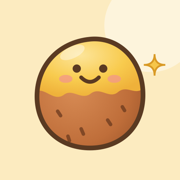
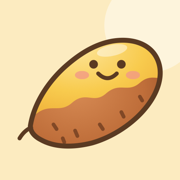
Give the sweet potato a real sweet-potato shape and drop UI borders
The illustration is now a tilted, tapered sweet potato with a root tip
instead of a round blob. Cards, inputs, tabs and empty stamp slots no
longer have outline borders.

Changed region(s): [[0.0833, 0.1944, 0.9167, 0.8611], [0.5278, 0.6389, 0.6389, 0.7222], [0.6667, 0.5833, 0.7222, 0.6667]]

diff --git a/index.html b/index.html
@@ -32,9 +32,9 @@ h1{margin:0;font-size:27px;line-height:1.2;font-family:Huninn,sans-serif;font-we
 h2{margin:0;font-size:18px;line-height:1.3;font-family:Huninn,sans-serif;font-weight:400}
 .sub{margin:0;font-size:12.5px;line-height:1.55;color:var(--muted)}
 .row{display:flex;gap:10px;align-items:center}
-.card{background:var(--card);border-radius:26px;padding:18px;display:flex;flex-direction:column;gap:12px;box-shadow:var(--shadow);border:1.5px solid #F1E3CF}
+.card{background:var(--card);border-radius:26px;padding:18px;display:flex;flex-direction:column;gap:12px;box-shadow:var(--shadow)}
 .pill{display:inline-flex;align-items:center;gap:6px;padding:6px 14px;border-radius:999px;background:var(--pill);font-size:13px;color:var(--brown-ink);white-space:nowrap}
-.hero{position:relative;overflow:hidden;display:flex;align-items:center;gap:8px;padding:18px 18px 18px 22px;border-radius:28px;background:var(--butter);border:1.5px solid #F2D899}
+.hero{position:relative;overflow:hidden;display:flex;align-items:center;gap:8px;padding:18px 18px 18px 22px;border-radius:28px;background:var(--butter)}
 .hero::before{content:"";position:absolute;right:-40px;top:-50px;width:170px;height:170px;border-radius:50%;background:rgba(255,255,255,.45)}
 .hero>*{position:relative}
 .big{font-family:Huninn,sans-serif;font-size:46px;line-height:1;color:var(--brown-ink)}
@@ -57,7 +57,7 @@ h2{margin:0;font-size:18px;line-height:1.3;font-family:Huninn,sans-serif;font-we
 .cell .plus{position:absolute;right:-2px;top:-2px;width:18px;height:18px;border-radius:50%;background:var(--brown);color:#fff;font-size:12px;font-weight:700;display:flex;align-items:center;justify-content:center;border:2px solid var(--card)}
 .cell.pop svg{animation:pop .5s cubic-bezier(.3,1.6,.5,1)}
 @keyframes pop{0%{transform:scale(.2) rotate(-30deg);opacity:0}100%{transform:scale(1) rotate(var(--r,0deg));opacity:1}}
-.tabs{position:fixed;left:0;right:0;bottom:0;z-index:5;background:rgba(255,252,246,.96);backdrop-filter:blur(8px);-webkit-backdrop-filter:blur(8px);border-top:1.5px solid var(--line);padding:6px 8px calc(6px + env(safe-area-inset-bottom))}
+.tabs{position:fixed;left:0;right:0;bottom:0;z-index:5;background:rgba(255,252,246,.96);backdrop-filter:blur(8px);-webkit-backdrop-filter:blur(8px);box-shadow:0 -4px 16px rgba(90,58,34,.06);padding:6px 8px calc(6px + env(safe-area-inset-bottom))}
 .tabs-in{max-width:480px;margin:0 auto;display:grid;grid-template-columns:repeat(5,minmax(0,1fr))}
 .tab{display:flex;flex-direction:column;align-items:center;gap:3px;padding:6px 0;min-height:52px;text-decoration:none;color:var(--muted);font-size:11.5px;font-weight:700;border-radius:14px}
 .tab svg{width:24px;height:24px}
@@ -67,14 +67,14 @@ h2{margin:0;font-size:18px;line-height:1.3;font-family:Huninn,sans-serif;font-we
 .group-h{display:flex;align-items:center;gap:10px;padding:0 2px}
 .group-h h2{font-size:16px;flex:1}
 .items{display:flex;flex-direction:column;gap:8px}
-.item{display:flex;align-items:center;gap:14px;min-height:56px;padding:0 10px 0 16px;border-radius:18px;background:var(--card);cursor:pointer;border:1.5px solid #F1E3CF}
-.item.on{background:var(--butter);border-color:#F2D899}
+.item{display:flex;align-items:center;gap:14px;min-height:56px;padding:0 10px 0 16px;border-radius:18px;background:var(--card);cursor:pointer}
+.item.on{background:var(--butter)}
 .item input{width:22px;height:22px;margin:0;accent-color:var(--brown);cursor:pointer}
 .item .name{flex:1;font-size:16px}
 .tag{font-size:11px;font-weight:700;padding:4px 10px;border-radius:999px;background:var(--card);color:var(--brown-ink)}
 .del{width:36px;height:36px;border:0;border-radius:50%;background:transparent;color:var(--muted);cursor:pointer;font-size:20px}
-.text-in{flex:1;min-width:0;height:48px;padding:0 16px;border:1.5px solid var(--line);border-radius:16px;background:var(--card);font-size:16px}
-.meal{display:flex;gap:14px;align-items:center;padding:12px 14px;border-radius:22px;background:var(--card);border:1.5px solid #F1E3CF}
+.text-in{flex:1;min-width:0;height:48px;padding:0 16px;border:0;border-radius:16px;background:var(--card);box-shadow:var(--shadow);font-size:16px}
+.meal{display:flex;gap:14px;align-items:center;padding:12px 14px;border-radius:22px;background:var(--card)}
 .meal h3{margin:0 0 4px;font-size:16px;font-family:Huninn,sans-serif;font-weight:400}
 .meal p{margin:0;font-size:12.5px;line-height:1.6;color:var(--muted)}
 .tips{margin:0;padding:16px;list-style:none;display:flex;flex-direction:column;gap:12px;border-radius:22px;background:var(--butter)}
@@ -83,7 +83,7 @@ h2{margin:0;font-size:18px;line-height:1.3;font-family:Huninn,sans-serif;font-we
 .chips{display:flex;flex-wrap:wrap;gap:8px}
 .chip{height:36px;padding:0 14px;border:0;border-radius:999px;font-size:13px;font-weight:700;cursor:pointer;background:var(--pill)}
 textarea{width:100%;padding:16px;border:0;border-radius:18px;background:var(--bg);font-size:16px;line-height:1.75;resize:vertical;min-height:240px;outline-color:var(--brown)}
-details.prev{border-radius:18px;background:var(--card);border:1.5px solid #F1E3CF}
+details.prev{border-radius:18px;background:var(--card)}
 details.prev summary{min-height:52px;padding:0 18px;display:flex;align-items:center;font-size:15px;font-weight:700;cursor:pointer;list-style:none}
 details.prev summary::-webkit-details-marker{display:none}
 details.prev pre{margin:0;padding:0 18px 16px;font-family:inherit;font-size:14px;line-height:1.8;color:var(--muted);white-space:pre-wrap}
@@ -94,7 +94,7 @@ details.prev pre{margin:0;padding:0 18px 16px;font-family:inherit;font-size:14px
 .pick:has(input:focus-visible){outline:2px solid var(--brown)}
 .stepper{display:flex;align-items:center;gap:6px}
 .stepper span{min-width:46px;text-align:center;font-family:Huninn,sans-serif;font-size:18px}
-.hist-row{display:flex;align-items:center;gap:10px;padding:8px 0;border-top:1px dashed var(--line)}
+.hist-row{display:flex;align-items:center;gap:10px;padding:8px 0;border-top:0;background:var(--bg);border-radius:14px;padding:8px 10px;margin-top:4px}
 .dots{display:flex;flex-wrap:wrap;gap:3px;max-width:120px;justify-content:flex-end}
 .dots i{width:9px;height:9px;border-radius:50%}
 .foot{margin:4px 0 0;text-align:center;font-size:11.5px;line-height:1.6;color:var(--muted)}
@@ -110,6 +110,7 @@ details.prev pre{margin:0;padding:0 18px 16px;font-family:inherit;font-size:14px
       <feTurbulence type="fractalNoise" baseFrequency="0.04" numOctaves="2" seed="4" result="n"/>
       <feDisplacementMap in="SourceGraphic" in2="n" scale="2.4" xChannelSelector="R" yChannelSelector="G"/>
     </filter>
+    <clipPath id="bodyClip"><path d="M9 71C11 58 19 44 31 33C41 24 51 18 62 16C74 14 86 17 91 27C96 37 92 49 84 59C76 69 63 78 49 82C37 85 25 85 16 80C12 78 9 75 9 71Z"/></clipPath>
     <radialGradient id="gFlesh" cx="40%" cy="28%" r="72%"><stop offset="0" stop-color="#FDE59A"/><stop offset=".6" stop-color="#F8CB4E"/><stop offset="1" stop-color="#EFB13A"/></radialGradient>
     <radialGradient id="gSkin" cx="35%" cy="45%" r="75%"><stop offset="0" stop-color="#D88C55"/><stop offset=".7" stop-color="#BF6E3A"/><stop offset="1" stop-color="#A35A2D"/></radialGradient>
   </defs>
@@ -194,7 +195,7 @@ details.prev pre{margin:0;padding:0 18px 16px;font-family:inherit;font-size:14px
       <div style="display:flex;align-items:baseline;gap:8px"><span class="big">49</span><span class="r" style="font-size:19px;color:var(--brown-ink)">→ 52.2 kg</span></div>
       <span id="planArt"></span>
     </div>
-    <div style="height:12px;border-radius:999px;background:rgba(255,255,255,.7);overflow:hidden;border:1.5px solid #F2D899"><div id="planBar" style="height:100%;width:0;border-radius:999px;background:var(--brown)"></div></div>
+    <div style="height:12px;border-radius:999px;background:rgba(255,255,255,.7);overflow:hidden"><div id="planBar" style="height:100%;width:0;border-radius:999px;background:var(--brown)"></div></div>
     <span style="font-size:12.5px;color:var(--brown-ink)" id="planPace"></span>
   </div>
   <div style="display:grid;grid-template-columns:repeat(3,minmax(0,1fr));gap:10px">
@@ -311,8 +312,9 @@ details.prev pre{margin:0;padding:0 18px 16px;font-family:inherit;font-size:14px
 
   // ---------- 地瓜插畫 ----------
   var LINE = '#5A3A22';
-  var BODY = 'M50 15C71 13 87 31 86 55C85 77 69 89 50 89S15 77 14 56C13 33 29 17 50 15Z';
-  var FLESH = 'M15.5 50C17 30 31 17 50 15C69 13 84 28 85.6 49C80 53 75 46 69 51C63 56 57 47 50.5 52C44 57 38 48 32 53C26 57 21 50 15.5 50Z';
+  // 地瓜：一頭胖一頭尖、斜放、表面有點凹凸
+  var BODY = 'M9 71C11 58 19 44 31 33C41 24 51 18 62 16C74 14 86 17 91 27C96 37 92 49 84 59C76 69 63 78 49 82C37 85 25 85 16 80C12 78 9 75 9 71Z';
+  var FLESH = 'M0 0H100V38C93 43 88 36 80 43C72 50 67 42 58 50C50 57 45 48 36 56C28 63 22 56 13 63L0 68Z';
   var FACES = {
     smile: '<circle cx="41" cy="35" r="2.8" fill="'+LINE+'"/><circle cx="59" cy="35" r="2.8" fill="'+LINE+'"/><path d="M44 41q6 6 12 0" fill="none" stroke="'+LINE+'" stroke-width="2.6" stroke-linecap="round"/>',
     happy: '<path d="M37 36q4-4.5 8 0M55 36q4-4.5 8 0" fill="none" stroke="'+LINE+'" stroke-width="2.6" stroke-linecap="round"/><path d="M43.5 40.5h13q-1 9-6.5 9t-6.5-9z" fill="#B5473A" stroke="'+LINE+'" stroke-width="2.2" stroke-linejoin="round"/>',
@@ -321,11 +323,12 @@ details.prev pre{margin:0;padding:0 18px 16px;font-family:inherit;font-size:14px
   };
   function potato(face){
     return '<path d="'+BODY+'" fill="url(#gSkin)"/>' +
-      '<path d="'+FLESH+'" fill="url(#gFlesh)"/>' +
-      '<ellipse cx="38" cy="24" rx="9" ry="4" fill="#fff" opacity=".4" transform="rotate(-25 38 24)"/>' +
-      '<path d="M28 64l2 3M44 76l1.5 3.5M62 70l2 3M35 81l1 3M72 61l1.5 2.5" stroke="#6B3A1E" stroke-width="2.4" stroke-linecap="round" opacity=".75"/>' +
-      '<ellipse cx="33.5" cy="42" rx="4.6" ry="2.7" fill="#F29A86" opacity=".8"/><ellipse cx="66.5" cy="42" rx="4.6" ry="2.7" fill="#F29A86" opacity=".8"/>' +
-      FACES[face||'smile'] +
+      '<path d="'+FLESH+'" fill="url(#gFlesh)" clip-path="url(#bodyClip)"/>' +
+      '<ellipse cx="62" cy="22" rx="10" ry="3.6" fill="#fff" opacity=".45" transform="rotate(-12 62 22)"/>' +
+      '<path d="M24 70l2 3M38 74l1.5 3.5M54 70l2 3M68 62l1.5 3M30 79l1 2.5M80 52l1.5 2.5" stroke="#6B3A1E" stroke-width="2.4" stroke-linecap="round" opacity=".75"/>' +
+      '<g transform="translate(9 -4)"><ellipse cx="33.5" cy="42" rx="4.6" ry="2.7" fill="#F29A86" opacity=".8"/><ellipse cx="66.5" cy="42" rx="4.6" ry="2.7" fill="#F29A86" opacity=".8"/>' +
+      FACES[face||'smile'] + '</g>' +
+      '<path d="M9.5 72Q5 74 2 79" fill="none" stroke="'+LINE+'" stroke-width="2.6" stroke-linecap="round"/>' +
       '<path d="'+BODY+'" fill="none" stroke="'+LINE+'" stroke-width="3.2" stroke-linejoin="round"/>';
   }
   function sparkle(cx, cy, r){ return '<path d="M'+cx+' '+(cy-r)+'Q'+cx+' '+cy+' '+(cx+r)+' '+cy+'Q'+cx+' '+cy+' '+cx+' '+(cy+r)+'Q'+cx+' '+cy+' '+(cx-r)+' '+cy+'Q'+cx+' '+cy+' '+cx+' '+(cy-r)+'Z" fill="#F6C64A" stroke="#D99A26" stroke-width="1.4" stroke-linejoin="round"/>'; }
@@ -381,7 +384,7 @@ details.prev pre{margin:0;padding:0 18px 16px;font-family:inherit;font-size:14px
   function stampSvg(key, label, bonus){
     return '<svg viewBox="0 0 100 100" role="img" aria-label="'+label+'"><g filter="url(#wob)"><circle cx="50" cy="50" r="48" fill="'+(bonus?'#FBDDBF':'#FCEBC0')+'"/>' + at(8,8,.84, ART[key]||ART.star) + '</g></svg>';
   }
-  function emptySvg(n){ return '<svg viewBox="0 0 100 100" role="img" aria-label="第 '+n+' 格未蓋章"><circle cx="50" cy="50" r="45" fill="#FBF4E8" stroke="#DCC7AC" stroke-width="3" stroke-dasharray="7 7"/><text x="50" y="59" text-anchor="middle" font-family="Huninn,sans-serif" font-size="26" fill="#80634B">'+n+'</text></svg>'; }
+  function emptySvg(n){ return '<svg viewBox="0 0 100 100" role="img" aria-label="第 '+n+' 格未蓋章"><circle cx="50" cy="50" r="45" fill="#F4E7D4"/><text x="50" y="59" text-anchor="middle" font-family="Huninn,sans-serif" font-size="26" fill="#80634B">'+n+'</text></svg>'; }
 
   // ---------- 習慣 ----------
   var DEFAULT_HABITS = [
@@ -549,7 +552,7 @@ details.prev pre{margin:0;padding:0 18px 16px;font-family:inherit;font-size:14px
       var key = iso(planMonday(n)), isCur = n === cur, future = n > cur, wt = load('bd:wt:'+key, null);
       var r = future ? null : weekDone(key), dots = '';
       if(r) for(var m=0;m<r.total;m++) dots += '<i style="background:'+(m<r.done?'#A65A2C':'#EFE1CD')+'"></i>';
-      html += '<div style="display:flex;align-items:center;gap:12px;padding:12px 16px;border-radius:18px;background:'+(isCur?'var(--butter)':'var(--card)')+';border:1.5px solid '+(isCur?'#F2D899':'#F1E3CF')+';opacity:'+(future?.7:1)+'">' +
+      html += '<div style="display:flex;align-items:center;gap:12px;padding:12px 16px;border-radius:18px;background:'+(isCur?'var(--butter)':'var(--card)')+';opacity:'+(future?.7:1)+'">' +
         '<span class="r" style="width:34px;height:34px;border-radius:50%;flex:none;display:flex;align-items:center;justify-content:center;font-size:15px;background:'+(isCur?'var(--brown)':'var(--bg)')+';color:'+(isCur?'#fff':'var(--ink)')+'">'+n+'</span>' +
         '<span style="flex:1;display:flex;flex-direction:column;gap:2px"><b style="font-size:14px">'+rangeLabel(planMonday(n))+(isCur?' · 本週':'')+'</b><span class="sub">目標 '+targetAt(n)+' kg'+(wt?' · 實際 '+wt+' kg':'')+'</span></span>' +
         (r ? '<span style="display:flex;flex-direction:column;align-items:flex-end;gap:4px"><span class="dots">'+dots+'</span><span class="sub" style="font-size:11px">達成 '+r.done+' / '+r.total+'</span></span>' : '') +
